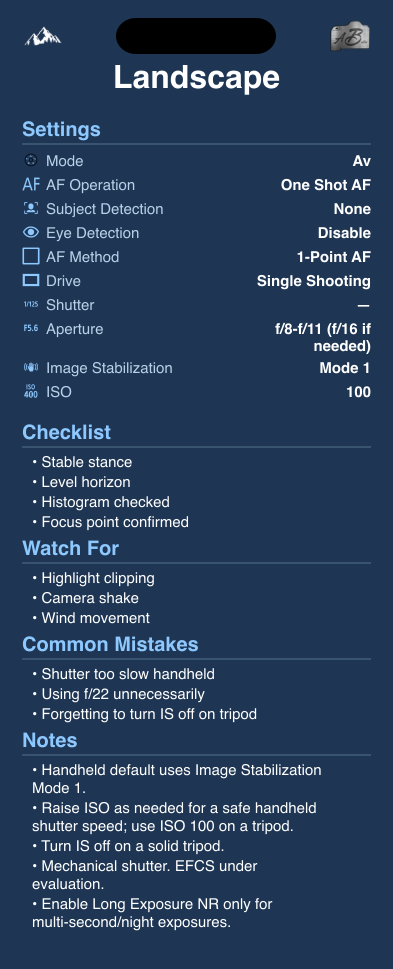
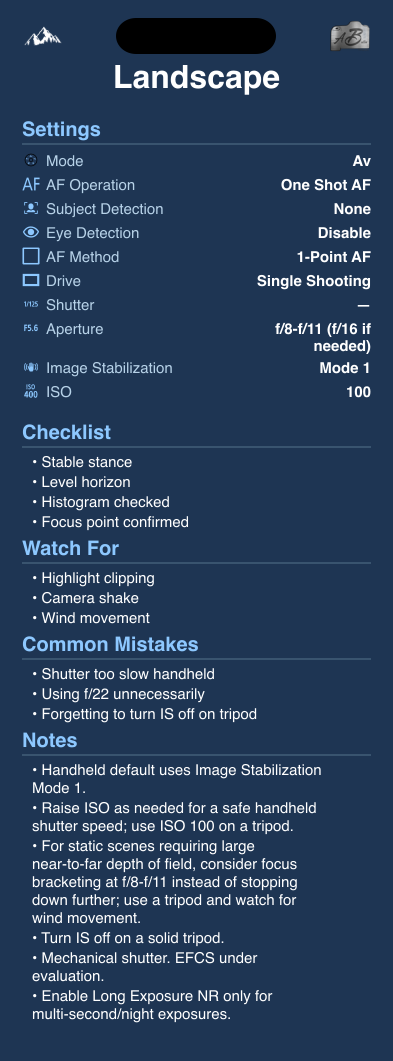
Finalize card links and generated references

diff --git a/docs/service-worker.js b/docs/service-worker.js
@@ -1,5 +1,5 @@
 const CACHE_PREFIX = "photography-reference";
-const CACHE_NAME = "photography-reference-1784207686";
+const CACHE_NAME = "photography-reference-1784211842";
 const CACHE_URLS = [
   "./",
   ".nojekyll",